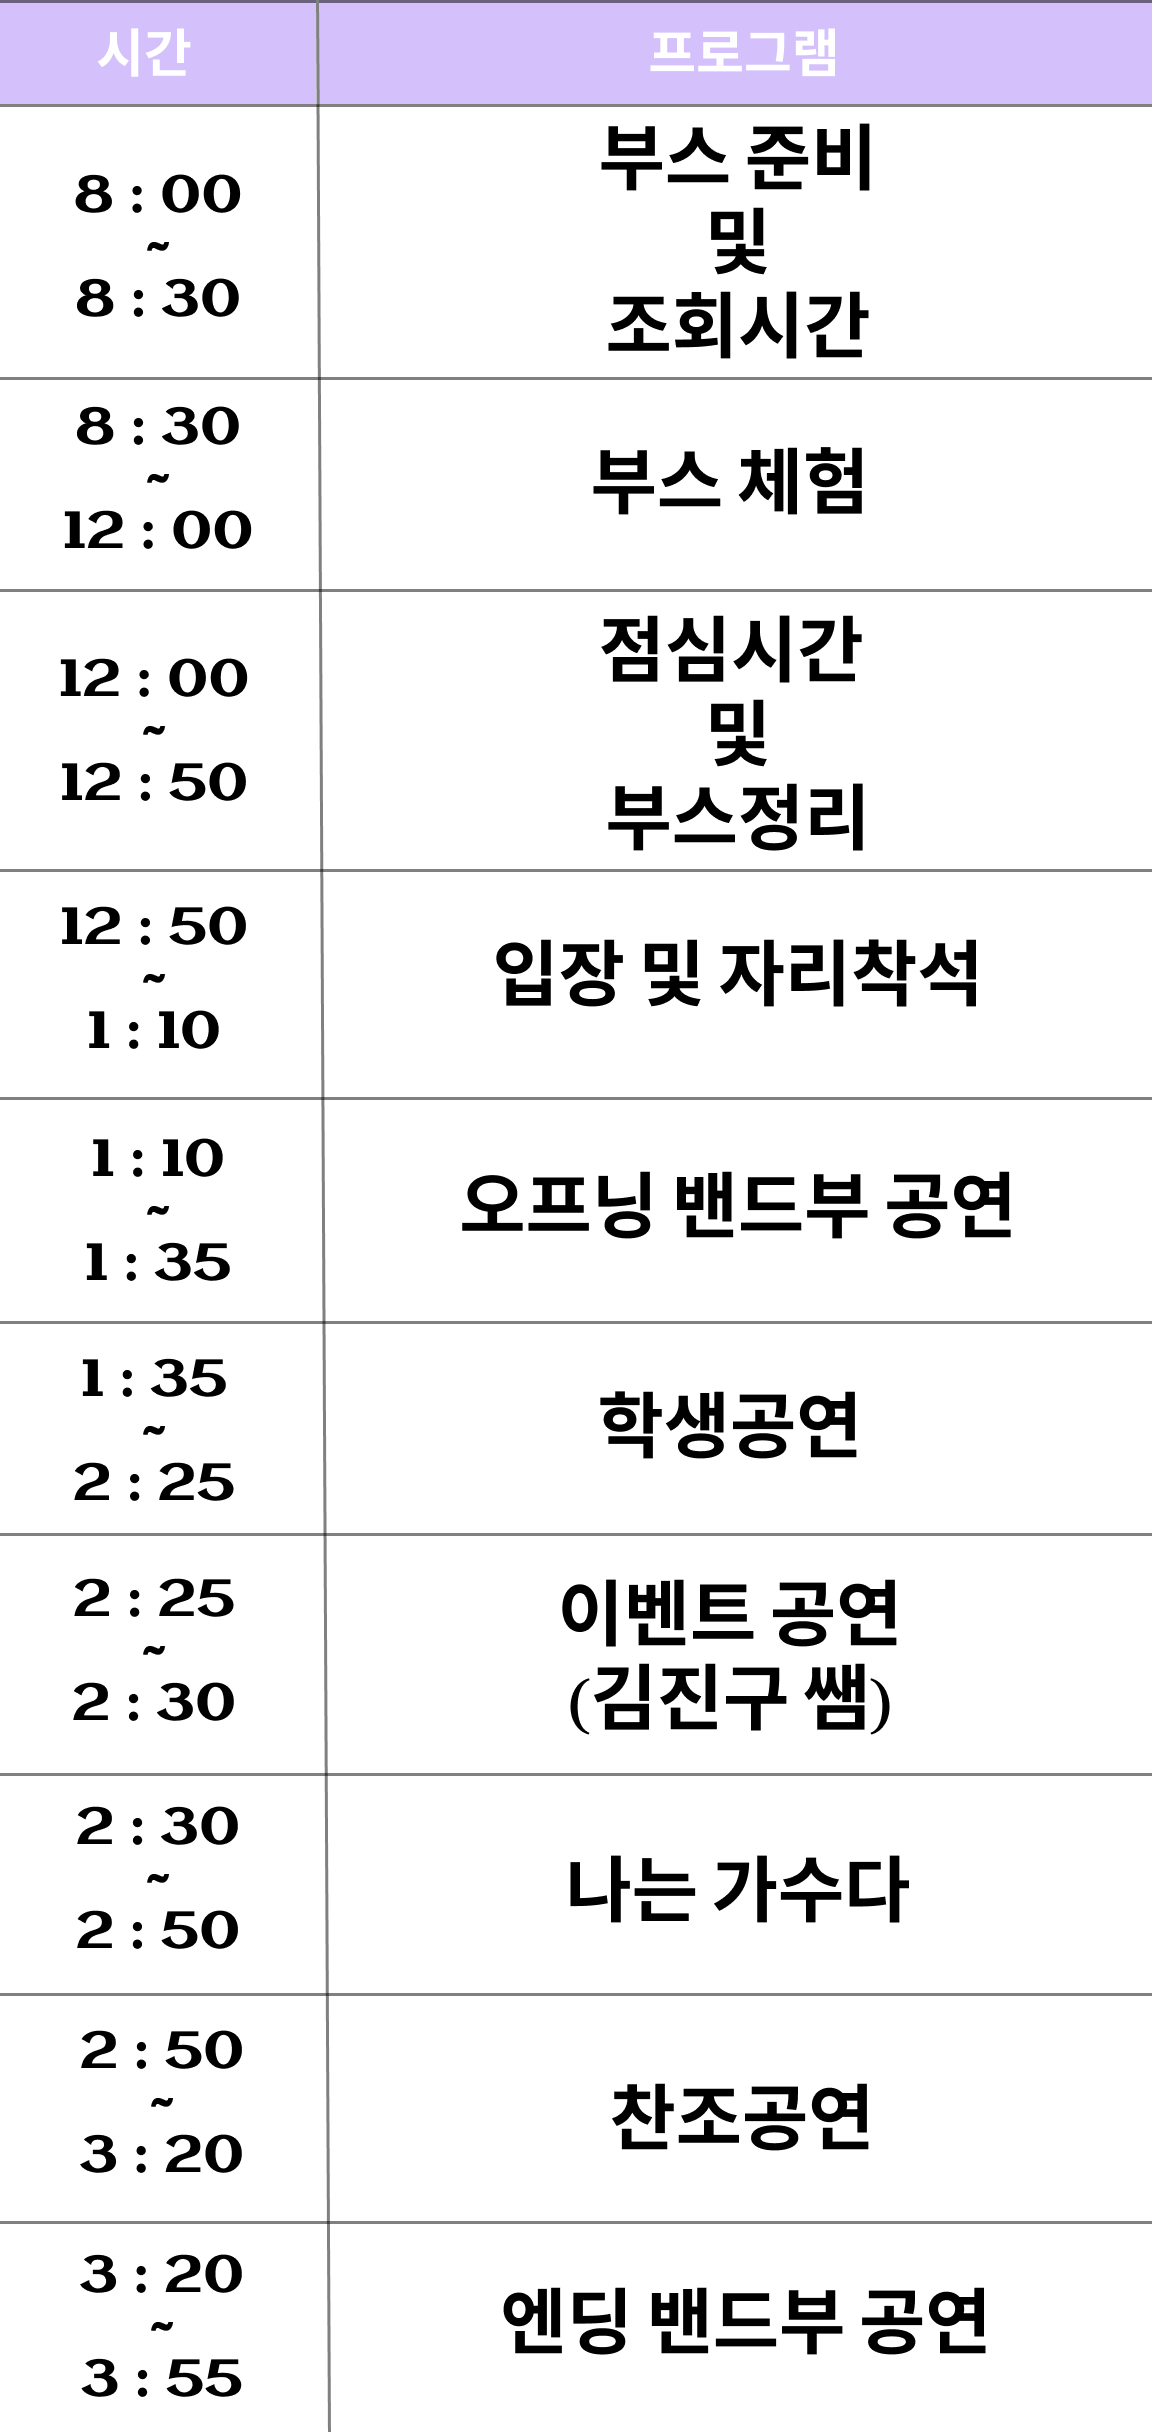
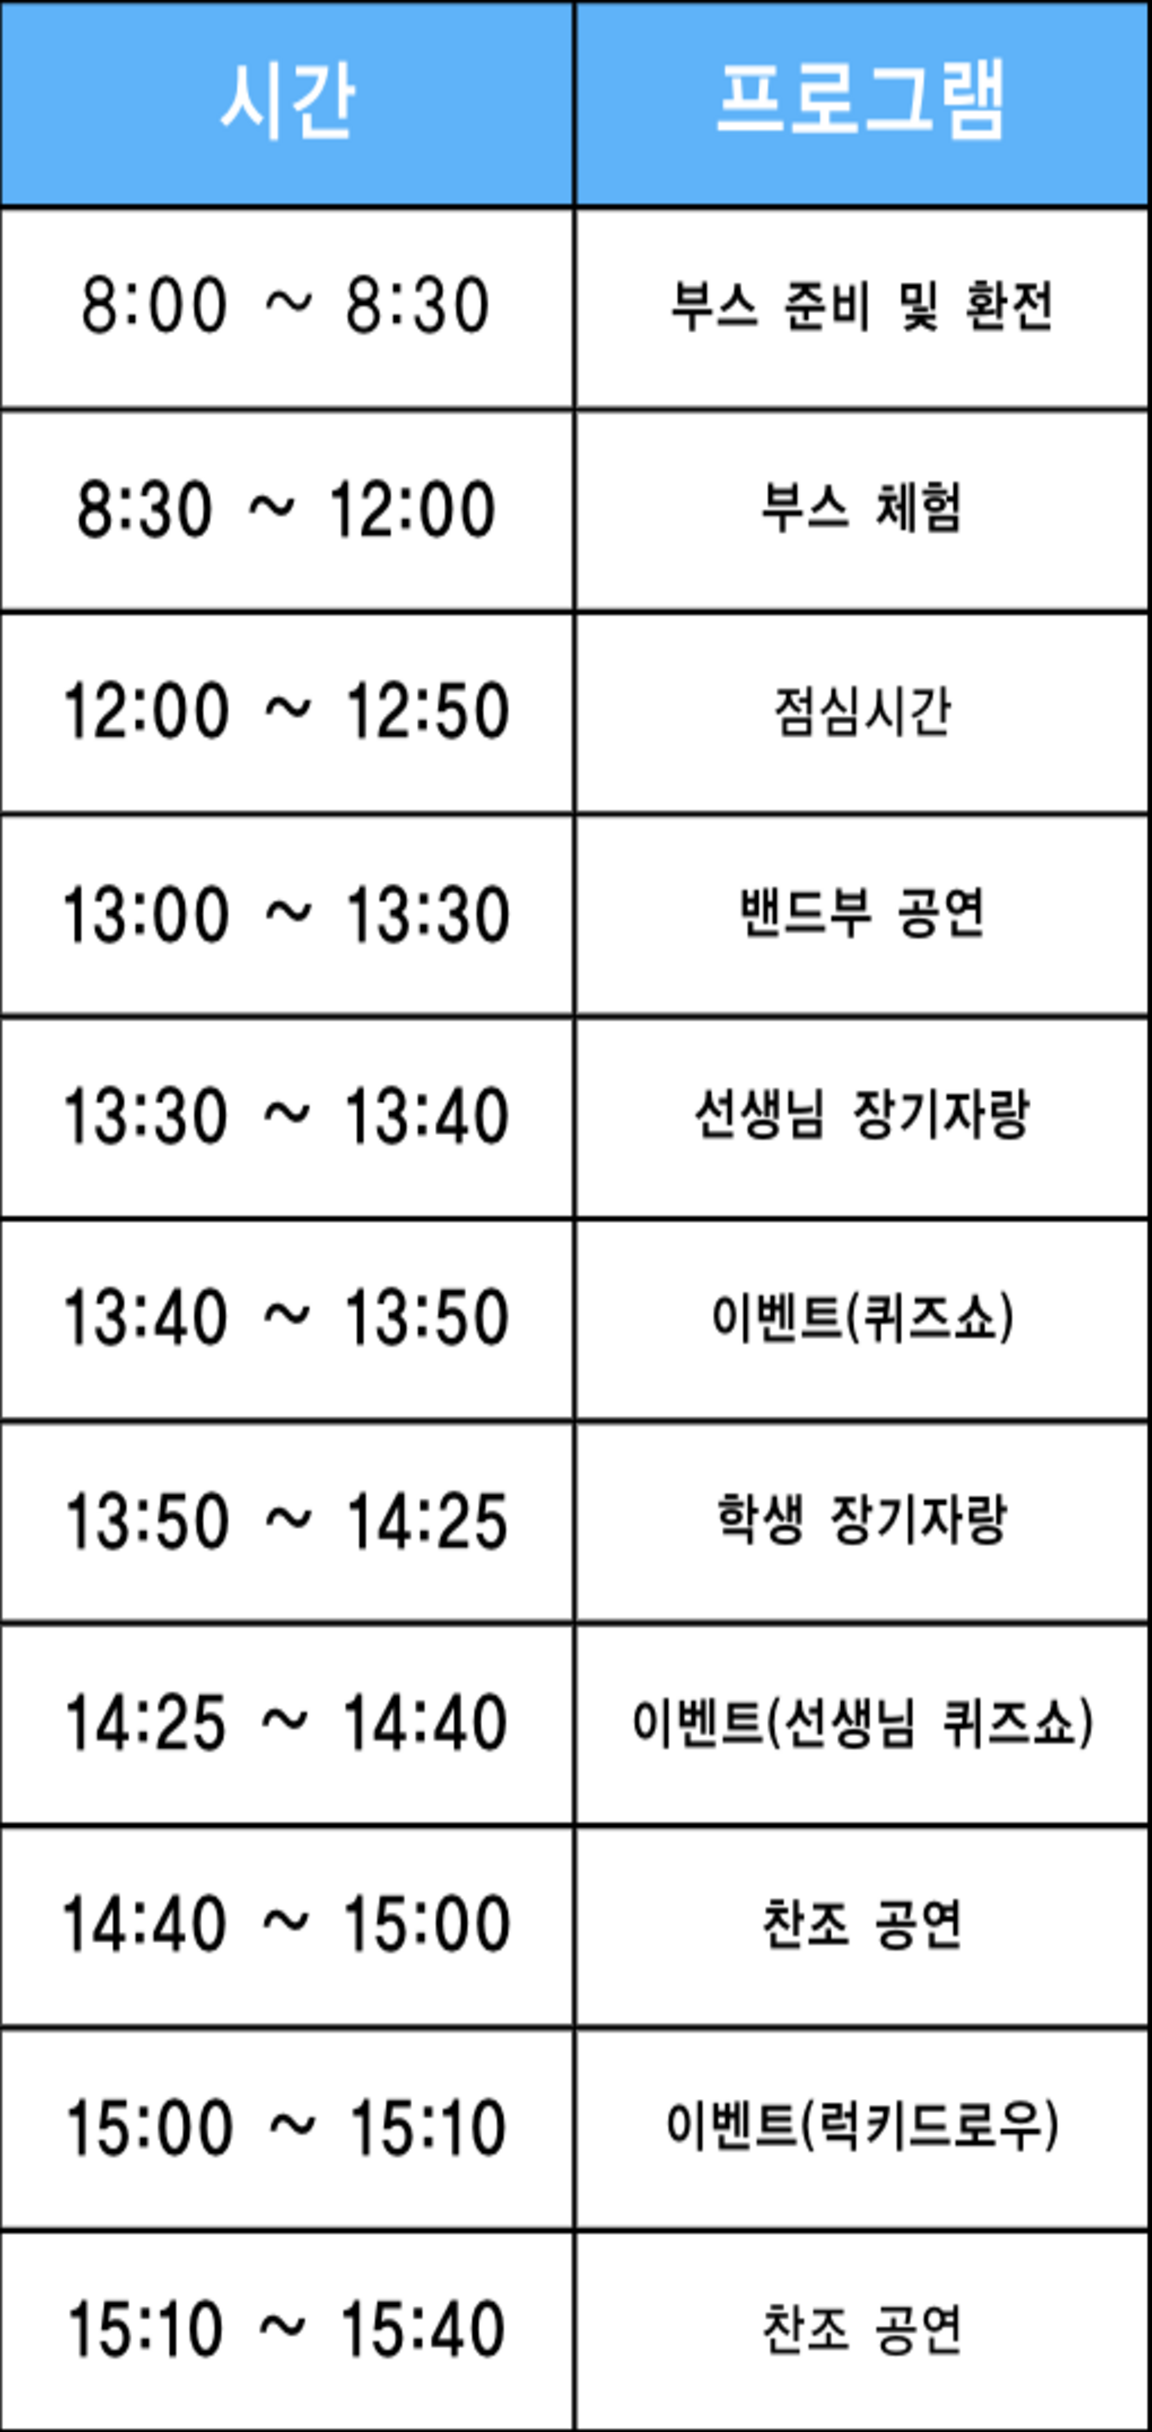
feat: add boothMap screen

Changed region(s): [[0.0, 0.0, 1.0, 1.0], [0.0, 0.7188, 0.0312, 0.7812], [0.0, 0.9688, 0.0312, 1.0]]

diff --git a/src/screens/eoullim/boothInfo/index.tsx b/src/screens/eoullim/boothInfo/index.tsx
@@ -1,18 +1,26 @@
 import React from 'react';
 
+import { BoothMap } from 'src/assets';
+import { Header, ScreenHeader, Text } from 'src/components';
+import { isIos } from 'src/utils';
+
 import * as S from './styled';
-
-import { ScreenHeader } from 'src/components';
-
-import { BoothBox } from 'src/components';
 
 export const BoothInfoScreen: React.FC = () => {
   return (
-    <S.BoothInfoScreenInfoWrapper>
-      <ScreenHeader title="부스 정보" />
-      <S.BoothInfoContainer>
-        <BoothBox />
-      </S.BoothInfoContainer>
-    </S.BoothInfoScreenInfoWrapper>
+    <S.EoullimTimeTableWrapper>
+      <ScreenHeader title="부스맵" />
+      <S.EoullimTimeTableContainer
+        showsVerticalScrollIndicator={false}
+        showsHorizontalScrollIndicator={false}
+        contentContainerStyle={{
+          paddingBottom: 20,
+          paddingHorizontal: isIos ? 20 : 0,
+          rowGap: 10,
+        }}
+      >
+        <S.EoullimTimeTableImage source={BoothMap} />
+      </S.EoullimTimeTableContainer>
+    </S.EoullimTimeTableWrapper>
   );
 };

diff --git a/App.tsx b/App.tsx
@@ -1,5 +1,6 @@
 import { QueryClient, QueryClientProvider } from 'react-query';
 import { LogBox } from 'react-native';
+import { useEffect } from 'react';
 import { NotifierWrapper } from 'react-native-notifier';
 import { GestureHandlerRootView } from 'react-native-gesture-handler';
 import CodePush from 'react-native-code-push';
@@ -13,6 +14,17 @@ import { Router } from 'src/Router';
 const client = new QueryClient({ defaultOptions: { queries: { retry: 0 } } });
 
 LogBox.ignoreAllLogs();
+
+const codePushOptions = {
+  checkFrequency: CodePush.CheckFrequency.ON_APP_START,
+  updateDialog: {
+    title: '...',
+    optionalUpdateMessage: '...',
+    optionalInstallButtonLabel: '업데이트',
+    optionalIgnoreButtonLabel: '아니요.',
+  },
+  installMode: CodePush.InstallMode.IMMEDIATE,
+};
 
 function App() {
   return (
@@ -32,4 +44,4 @@ function App() {
   );
 }
 
-export default CodePush(App);
+export default CodePush(codePushOptions)(App);

diff --git a/src/screens/eoullim/timeTable/index.tsx b/src/screens/eoullim/timeTable/index.tsx
@@ -1,7 +1,7 @@
 import React from 'react';
 
 import { EoullimTimeTable } from 'src/assets';
-import { Header, Text } from 'src/components';
+import { ScreenHeader } from 'src/components';
 import { isIos } from 'src/utils';
 
 import * as S from './styled';
@@ -9,7 +9,7 @@ import * as S from './styled';
 export const EoullimTimeTableScreen: React.FC = () => {
   return (
     <S.EoullimTimeTableWrapper>
-      <Header hasGoBackIcon />
+      <ScreenHeader title="행사일정" />
       <S.EoullimTimeTableContainer
         showsVerticalScrollIndicator={false}
         showsHorizontalScrollIndicator={false}
@@ -19,9 +19,6 @@ export const EoullimTimeTableScreen: React.FC = () => {
           rowGap: 10,
         }}
       >
-        <Text size={22} fontFamily="bold" isCenter>
-          행사일정
-        </Text>
         <S.EoullimTimeTableImage source={EoullimTimeTable} />
       </S.EoullimTimeTableContainer>
     </S.EoullimTimeTableWrapper>

diff --git a/src/screens/eoullim/boothInfo/styled.ts b/src/screens/eoullim/boothInfo/styled.ts
@@ -1,12 +1,21 @@
 import styled from '@emotion/native';
 
-export const BoothInfoScreenInfoWrapper = styled.SafeAreaView`
+import { isIos } from 'src/utils';
+
+export const EoullimTimeTableWrapper = styled.SafeAreaView`
+  flex: 1;
   background-color: ${({ theme }) => theme.background};
-  width: 100%;
+  padding: 20px;
+  padding-bottom: 0;
 `;
 
-export const BoothInfoContainer = styled.ScrollView`
-  padding: 0 20px;
-  width: 100%;
-  flex-direction: column;
+export const EoullimTimeTableContainer = styled.ScrollView`
+  flex: 1;
+`;
+
+export const EoullimTimeTableImage = styled.ImageBackground`
+  border-radius: 20px;
+  margin-top: 20px;
+  height: ${isIos ? '820px' : '700px'};
+  border: 1px solid ${({ theme }) => theme.lightGray};
 `;

diff --git a/src/screens/hanumPay/main/index.tsx b/src/screens/hanumPay/main/index.tsx
@@ -134,7 +134,7 @@ export const HanumPayMainScreen: React.FC = () => {
                     },
                   )
                 ) : (
-                  <Text size={16}>아직 이용내역이 없어요.</Text>
+                  <Text size={16}>아직 이용내역이 없어요</Text>
                 )}
               </S.HanumUseAgeContainer>
             </S.HanumUseAgeHistory>

diff --git a/src/assets/images/index.ts b/src/assets/images/index.ts
@@ -3,3 +3,4 @@ export const UserLogo = require('./user.png');
 export const EoullimPoster = require('./eoullim.png');
 export const EoullimTimeTable = require('./eoullimTimeTable.png');
 export const BoothImg = require('./boothImg.png');
+export const BoothMap = require('./boothMap.png');

diff --git a/src/screens/eoullim/timeTable/styled.ts b/src/screens/eoullim/timeTable/styled.ts
@@ -14,6 +14,7 @@ export const EoullimTimeTableContainer = styled.ScrollView`
 `;
 
 export const EoullimTimeTableImage = styled.ImageBackground`
+  margin-top: 20px;
   height: ${isIos ? '820px' : '700px'};
   border: 1px solid ${({ theme }) => theme.lightGray};
 `;

diff --git a/src/components/eoullim/timeTableItem/styled.ts b/src/components/eoullim/timeTableItem/styled.ts
@@ -1,0 +1,8 @@
+import styled from '@emotion/native';
+
+export const Item = styled.View`
+  width: 100%;
+  height: 30px;
+  border-radius: 20px;
+  background-color:;
+`;

diff --git a/src/components/eoullim/timeTableItem/index.tsx b/src/components/eoullim/timeTableItem/index.tsx
@@ -1,0 +1,7 @@
+// import React from "react";
+
+// export const TimeTableItem: React.FC = () => {
+//     return(
+
+//     )
+// }
